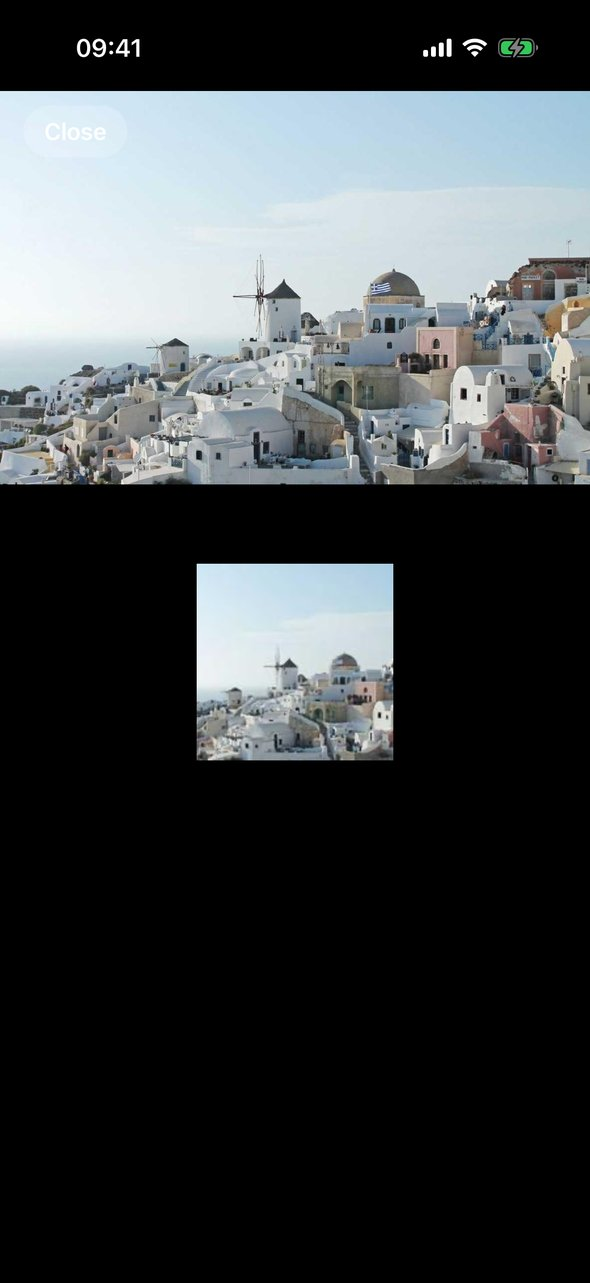
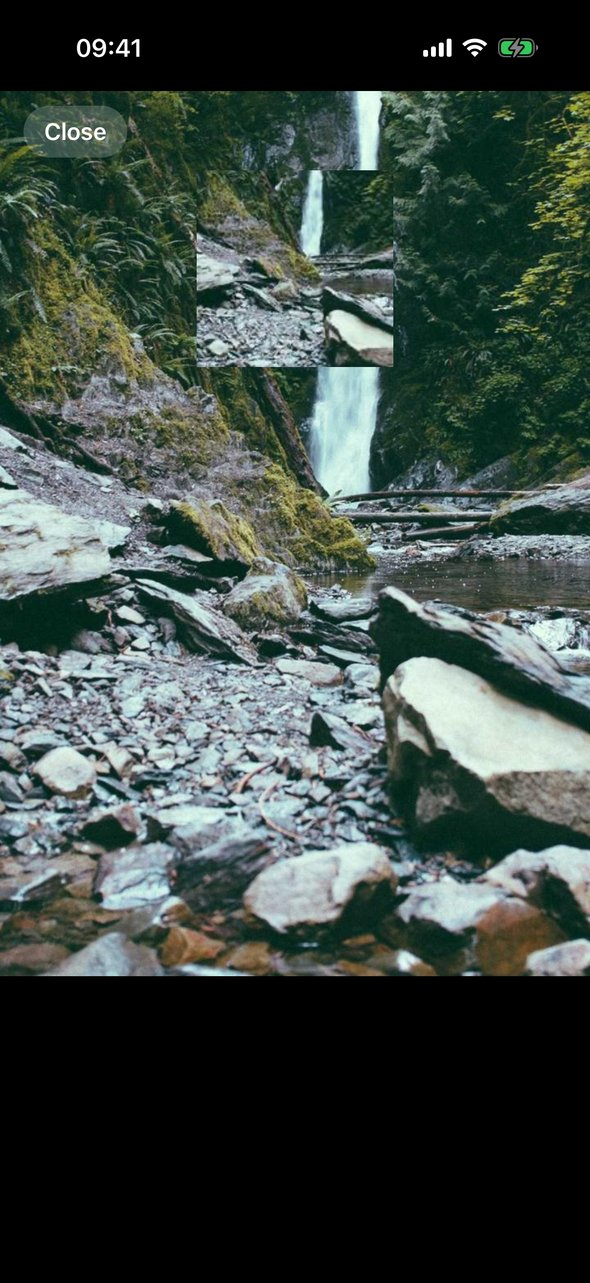
docs: show the detail screen under the teleported thumbnail
- in step 4, the teleport chapter now opens the detail screen below the thumbnail and collapses to the flat phone, so it matches the screenshot
- retake the step 4 screenshot with the same photo as the explainer
- hide store values that don't exist yet in step 4

diff --git a/docs/src/components/PhotoTransitionExplainer/index.tsx b/docs/src/components/PhotoTransitionExplainer/index.tsx
@@ -70,10 +70,21 @@ type Readout = {
   host: string;
   fullRes: string;
 };
+const READOUTS: Array<keyof Readout> = [
+  "progress",
+  "host",
+  "source",
+  "target",
+  "fullRes",
+];
 // what the app looks like at a moment of a chapter
 type Core = {
   tap: "thumb" | "close" | null;
   tapK: number;
+  /** step 4: nothing animates yet, the detail screen opens as is */
+  plain: boolean;
+  /** collapses the exploded layers: 1 shows the phone as users see it */
+  flat: number;
   /** thumbnail z: 0 in its cell, 1 in the root host */
   lift: number;
   inHost: boolean;
@@ -107,6 +118,8 @@ const HOST = '"root"';
 const IDLE: Core = {
   tap: null,
   tapK: -1,
+  plain: false,
+  flat: 0,
   lift: 0,
   inHost: false,
   thumbP: 0,
@@ -150,6 +163,8 @@ type Chapter = {
   title: string;
   captions: Array<[number, string, string]>;
   at: (u: number) => Core;
+  /** store values that exist at this step; all of them by default */
+  readouts?: Array<keyof Readout>;
 };
 
 const H = { F0: 1.6, FS: 4.16, SWAP: 0.24, LAND: 1.3, RESUME: 7.1, FE: 10.7 };
@@ -384,6 +399,60 @@ const CHAPTERS: Record<ChapterId, Chapter> = {
   },
 };
 
+// chapters that tell more when played on their own than as a part of the pipeline
+const ALONE: Partial<Record<ChapterId, Chapter>> = {
+  // step 4: the detail screen opens as is, under the teleported thumbnail
+  teleport: {
+    duration: 9.6,
+    still: 5.6,
+    title:
+      "3D view of the teleport step: tapping a thumbnail moves it into the root PortalHost, above every screen, so it stays on top of the detail screen and its full-res photo.",
+    captions: [
+      ...CHAPTERS.teleport.captions,
+      [
+        3.4,
+        "The detail screen opens below the thumbnail",
+        "The root host sits above every screen, so the thumbnail covers the full-res photo.",
+      ],
+      [
+        6.9,
+        "What users see: the thumbnail on top of the photo",
+        "It keeps its grid position until the next step animates it.",
+      ],
+    ],
+    readouts: ["host", "fullRes"],
+    at: (u) => {
+      const inHost = u >= 0.9;
+      const loaded = u >= 4.4;
+      const loading = loaded ? 0 : ss(u, 3.6, 3.9);
+      return core({
+        tap: "thumb",
+        tapK: (u - 0.9) / 0.7,
+        plain: true,
+        flat: ss(u, 6.9, 8.1),
+        outline: ss(u, 8, 8.4),
+        lift: ss(u, 1.4, 2.8),
+        inHost,
+        push: ss(u, 3.4, 3.9),
+        backdrop: 1,
+        detailP: 1,
+        detailShown: loaded,
+        ghost: loading,
+        closeK: 1,
+        chips: {
+          low: ss(u, 2.5, 3),
+          ghost: loading,
+          full: loaded ? ss(u, 4.4, 4.8) : 0,
+        },
+        readout: {
+          host: inHost ? HOST : "undefined",
+          fullRes: u < 3.4 ? "not requested" : loaded ? "loaded" : "loading",
+        },
+      });
+    },
+  },
+};
+
 const PIPELINE_TITLE =
   "3D breakdown of the Photo Gallery hero transition: the thumbnail teleports into a root PortalHost, flies to full screen together with an invisible full-res photo, the two swap in one commit as soon as the photo loads, the thumbnail returns to its cell, and Close plays the transition in reverse.";
 const INTRO: [string, string] = [
@@ -397,29 +466,35 @@ const OUTRO: [string, string] = [
 
 type Plan = {
   full: boolean;
-  chapters: Array<{ id: ChapterId; start: number }>;
+  chapters: Array<{ id: ChapterId; start: number; chapter: Chapter }>;
   end: number;
   total: number;
   loopTo: number;
   still: number;
   title: string;
   captions: Array<[number, string, string]>;
+  readouts: Array<keyof Readout>;
 };
 
 // a single chapter explodes the phone and loops; several chapters play as one story, from the flat phone and back
 const makePlan = (ids: ChapterId[]): Plan => {
   const full = ids.length > 1;
-  const first = ids[0] ?? "teleport";
   let t = full ? 3.3 : 2;
   const chapters = ids.map((id) => {
-    const c = { id, start: t };
-    t += CHAPTERS[id].duration;
+    const chapter = (!full && ALONE[id]) || CHAPTERS[id];
+    const c = { id, start: t, chapter };
+    t += chapter.duration;
     return c;
   });
+  const first = chapters[0] ?? {
+    id: "teleport" as ChapterId,
+    start: 0,
+    chapter: CHAPTERS.teleport,
+  };
   const captions: Array<[number, string, string]> = [];
   if (full) captions.push([0, ...INTRO]);
   chapters.forEach((c, i) =>
-    CHAPTERS[c.id].captions.forEach(([s, a, b]) =>
+    c.chapter.captions.forEach(([s, a, b]) =>
       captions.push([!full && i === 0 && s === 0 ? 0 : c.start + s, a, b]),
     ),
   );
@@ -430,25 +505,33 @@ const makePlan = (ids: ChapterId[]): Plan => {
     chapters,
     end: t,
     total: full ? t + 4 : t + 1.4,
-    loopTo: full ? 0 : (chapters[0]?.start ?? 0),
+    loopTo: full ? 0 : first.start,
     still: handoff
       ? handoff.start + CHAPTERS.handoff.still
-      : (chapters[0]?.start ?? 0) + CHAPTERS[first].still,
-    title: full ? PIPELINE_TITLE : CHAPTERS[first].title,
+      : first.start + first.chapter.still,
+    title: full ? PIPELINE_TITLE : first.chapter.title,
     captions,
+    readouts: (!full && first.chapter.readouts) || READOUTS,
   };
 };
 
 const sceneAt = (plan: Plan, t: number): Scene => {
-  let ch = plan.chapters[0] ?? { id: "teleport" as ChapterId, start: 0 };
+  let ch = plan.chapters[0] ?? {
+    id: "teleport" as ChapterId,
+    start: 0,
+    chapter: CHAPTERS.teleport,
+  };
   for (const c of plan.chapters) if (t >= c.start) ch = c;
-  const chapter = CHAPTERS[ch.id];
+  const { chapter } = ch;
   const c = chapter.at(clamp(t - ch.start, 0, chapter.duration));
   const { full, end } = plan;
-  const ex = full
-    ? ss(t, 0.6, 2.9) * (1 - ss(t, end + 0.4, end + 2.4))
-    : ss(t, 0.3, 1.8);
-  const hud = full ? 1 - ss(t, end, end + 0.4) : 1;
+  const ex =
+    (full
+      ? ss(t, 0.6, 2.9) * (1 - ss(t, end + 0.4, end + 2.4))
+      : ss(t, 0.3, 1.8)) *
+    (1 - c.flat);
+  // labels and chips fade out before the layers collapse
+  const hud = (full ? 1 - ss(t, end, end + 0.4) : 1) * (1 - ss(c.flat, 0, 0.3));
   const [in0, in2] = full ? [2.2, 2.7] : [1.2, 1.5];
   let caption = 0;
   plan.captions.forEach(([start], i) => {
@@ -528,6 +611,13 @@ const tipFor = (key: TipKey, sc: Core): Tip => {
         code: "<View style={{ width, height }}>",
       };
     case "detail":
+      if (sc.plain)
+        return {
+          tone: "detail",
+          title: "Detail screen",
+          body: "A transparent modal with a black backdrop. It covers the gallery, but not the root host above it, so the teleported thumbnail stays in sight.",
+          code: 'presentation: "containedTransparentModal"',
+        };
       return {
         tone: "detail",
         title: "Detail screen",
@@ -535,6 +625,20 @@ const tipFor = (key: TipKey, sc: Core): Tip => {
         code: 'presentation: "containedTransparentModal"',
       };
     case "full":
+      if (sc.plain)
+        return sc.detailShown
+          ? {
+              tone: "hot",
+              title: "Full-res photo",
+              body: "A plain <Image> on the detail screen. The thumbnail draws on top of it, because the root host is above every screen.",
+              code: "source={{ uri: photo.fullSize }}",
+            }
+          : {
+              tone: "detail",
+              title: "Full-res photo, loading",
+              body: "A plain <Image> on the detail screen. Until it’s downloaded and decoded, the screen stays black, as in step 2.",
+              code: "source={{ uri: photo.fullSize }}",
+            };
       if (sc.detailShown)
         return {
           tone: "hot",
@@ -556,6 +660,13 @@ const tipFor = (key: TipKey, sc: Core): Tip => {
             code: "opacity: visibility.target",
           };
     case "close":
+      if (sc.plain)
+        return {
+          tone: "detail",
+          title: "Close button",
+          body: "Goes through the store: goBack clears id, so the thumbnail’s <Portal> renders in its cell again.",
+          code: "goBack(navigation.goBack)",
+        };
       return {
         tone: "detail",
         title: "Close button",
@@ -581,7 +692,9 @@ const tipFor = (key: TipKey, sc: Core): Tip => {
         return {
           tone: "host",
           title: "Teleported thumbnail",
-          body: "The same native view, now a child of the root PortalHost: nothing is re-mounted or re-decoded. progress drives its translate, scale and height.",
+          body: sc.plain
+            ? "The same native view, now a child of the root PortalHost: nothing is re-mounted or re-decoded. It keeps its grid position, above every screen."
+            : "The same native view, now a child of the root PortalHost: nothing is re-mounted or re-decoded. progress drives its translate, scale and height.",
           code: '<Portal hostName="root">',
         };
       if (sc.inHost)
@@ -798,7 +911,8 @@ function createScene(root: HTMLElement, palette: { current: Palette }) {
     box(q("thumbImage"), photoBox(fr));
     corners4("f", fr);
     opacity("thumbImage", sc.thumbShown ? 1 : 0);
-    const outlineK = sc.thumbShown ? 0 : ex * sc.outline;
+    // a hidden thumbnail is drawn as its outline; a visible one is outlined only to point it out on the flat phone
+    const outlineK = sc.thumbShown ? sc.outline * (1 - ex) : ex * sc.outline;
     opacity("thumbOutline", outlineK);
     q("slot").style.borderColor = rgba(pal.host, 0.9 * ex * sc.lift);
 
@@ -1323,6 +1437,7 @@ function Explainer({ plan, compact }: { plan: Plan; compact: boolean }) {
   const thumbClip = `${uid}-thumbClip`;
   const handoffClip = `${uid}-handoffClip`;
   const [, capTitle = "", capText = ""] = plan.captions[caption] ?? [];
+  const shows = (key: keyof Readout) => plan.readouts.includes(key);
   const corner = (prefix: string) =>
     [0, 1, 2, 3].map((i) => (
       <div
@@ -1723,39 +1838,49 @@ function Explainer({ plan, compact }: { plan: Plan; compact: boolean }) {
             aria-label="Animation timeline"
           />
           <dl className={styles.state}>
-            <div>
-              <dt>progress</dt>
-              <dd>
-                <span ref={progressRef}>0.00</span>
-                <span className={styles.bar}>
-                  <span ref={barRef} />
-                </span>
-              </dd>
-            </div>
-            <div>
-              <dt>hostName</dt>
-              <dd>
-                <span ref={hostRef}>undefined</span>
-              </dd>
-            </div>
-            <div>
-              <dt>visibility.source</dt>
-              <dd>
-                <span ref={sourceRef}>1</span>
-              </dd>
-            </div>
-            <div>
-              <dt>visibility.target</dt>
-              <dd>
-                <span ref={targetRef}>0</span>
-              </dd>
-            </div>
-            <div>
-              <dt>full-res</dt>
-              <dd>
-                <span ref={loadRef}>not requested</span>
-              </dd>
-            </div>
+            {shows("progress") ? (
+              <div>
+                <dt>progress</dt>
+                <dd>
+                  <span ref={progressRef}>0.00</span>
+                  <span className={styles.bar}>
+                    <span ref={barRef} />
+                  </span>
+                </dd>
+              </div>
+            ) : null}
+            {shows("host") ? (
+              <div>
+                <dt>hostName</dt>
+                <dd>
+                  <span ref={hostRef}>undefined</span>
+                </dd>
+              </div>
+            ) : null}
+            {shows("source") ? (
+              <div>
+                <dt>visibility.source</dt>
+                <dd>
+                  <span ref={sourceRef}>1</span>
+                </dd>
+              </div>
+            ) : null}
+            {shows("target") ? (
+              <div>
+                <dt>visibility.target</dt>
+                <dd>
+                  <span ref={targetRef}>0</span>
+                </dd>
+              </div>
+            ) : null}
+            {shows("fullRes") ? (
+              <div>
+                <dt>full-res</dt>
+                <dd>
+                  <span ref={loadRef}>not requested</span>
+                </dd>
+              </div>
+            ) : null}
           </dl>
         </div>
       )}
